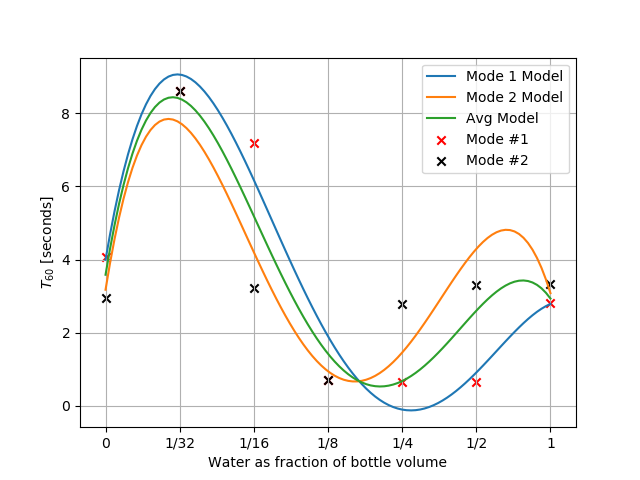
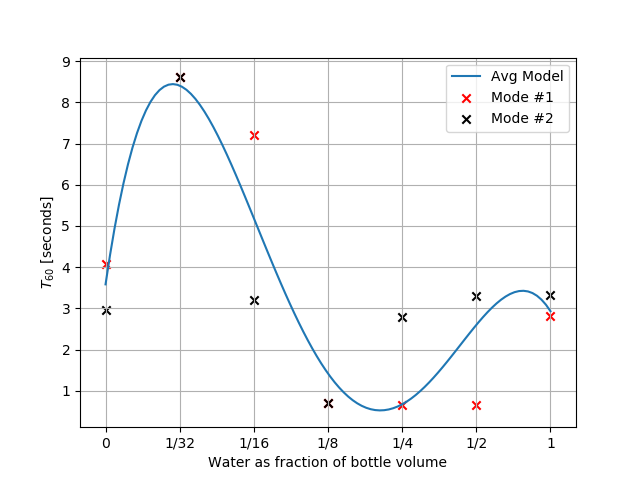
Update water damping plot

diff --git a/hydroflask_water_mode_analysis.py b/hydroflask_water_mode_analysis.py
@@ -14,61 +14,56 @@ def rev_sigmoid(x, a, b, c, d):
     return c * (1.0 - (1.0 / (1.0 + np.exp(-b*(x-a))))) + d
 
 # %%
-plt.figure()
-mode_freqs = np.flip(np.abs(mode_data[:,0]))
-plt.scatter(x, mode_freqs, marker='x', color='r', label='Measured')
+# plt.figure()
+# mode_freqs = np.flip(np.abs(mode_data[:,0]))
+# plt.scatter(x, mode_freqs, marker='x', color='r', label='Measured')
 
-# z_freq = np.polyfit(x, mode_freqs, 3)
-# p_freq = np.poly1d(z_freq)
-# plt.plot(x_long, p_freq(x_long), label='Modelled')
-popt, pcov = curve_fit(rev_sigmoid, x, mode_freqs, bounds=([0, 1, -100, -200], [1, 100, 100, 200]))
-plt.plot(x_long, rev_sigmoid(x_long, *popt), label='Modelled')
-# print('Freq function:')
-# print(p_freq)
-print(popt)
+# popt, pcov = curve_fit(rev_sigmoid, x, mode_freqs, bounds=([0, 1, -100, -200], [1, 100, 100, 200]))
+# plt.plot(x_long, rev_sigmoid(x_long, *popt), label='Modelled')
+# print(popt)
 
-# plt.title('First mode frequency vs water amount')
-plt.ylabel('Frequency [Hz]')
-plt.xlabel('Water as fraction of bottle volume')
-plt.xticks(x, ['0', '1/32', '1/16', '1/8', '1/4', '1/2', '1'])
-plt.legend()
-plt.grid()
-plt.savefig('Figures/Water_Freq.png')
+# # plt.title('First mode frequency vs water amount')
+# plt.ylabel('Frequency [Hz]')
+# plt.xlabel('Water as fraction of bottle volume')
+# plt.xticks(x, ['0', '1/32', '1/16', '1/8', '1/4', '1/2', '1'])
+# plt.legend()
+# plt.grid()
+# plt.savefig('Figures/Water_Freq.png')
 
 # %%
-# plt.figure()
-# colors = ['r', 'k']
-# for i in range(2):
-#     mode_damps = np.abs(mode_data[:,40+i])
-#     tau_gains = np.exp(-1.0 / mode_damps)
-#     t60s = np.log(0.001) / (48000 * np.log(tau_gains))
-#     plt.scatter(x, t60s, label='Mode #{}'.format(i+1), marker='x', color=colors[i])
+plt.figure()
+colors = ['r', 'k']
+for i in range(2):
+    mode_damps = np.abs(mode_data[:,40+i])
+    tau_gains = np.exp(-1.0 / mode_damps)
+    t60s = np.log(0.001) / (48000 * np.log(tau_gains))
+    plt.scatter(x, t60s, label='Mode #{}'.format(i+1), marker='x', color=colors[i])
 
-# mode_damps1 = np.mean(np.abs(mode_data[:,40:41]), axis=1)
-# mode_damps2 = np.mean(np.abs(mode_data[:,41:42]), axis=1)
-# mode_damps_avg = np.mean(np.abs(mode_data[:,40:42]), axis=1)
-# # # plt.plot(x, mode_damps, label='Avg')
+mode_damps1 = np.mean(np.abs(mode_data[:,40:41]), axis=1)
+mode_damps2 = np.mean(np.abs(mode_data[:,41:42]), axis=1)
+mode_damps_avg = np.mean(np.abs(mode_data[:,40:42]), axis=1)
+# # plt.plot(x, mode_damps, label='Avg')
 
-# def model_mode_damp(mode_damps, label):
-#     z_damp = np.polyfit(x, mode_damps, 4)
-#     p_damp = np.poly1d(z_damp)
-#     tau_gains = np.exp(-1.0 / p_damp(x_long))
-#     t60s = np.log(0.001) / (48000 * np.log(tau_gains))
-#     plt.plot(x_long, t60s, label=label)
-#     # print('Damp function:')
-#     # print(p_damp)
+def model_mode_damp(mode_damps, label):
+    z_damp = np.polyfit(x, mode_damps, 4)
+    p_damp = np.poly1d(z_damp)
+    tau_gains = np.exp(-1.0 / p_damp(x_long))
+    t60s = np.log(0.001) / (48000 * np.log(tau_gains))
+    plt.plot(x_long, t60s, label=label)
+    # print('Damp function:')
+    # print(p_damp)
 
 # model_mode_damp(mode_damps1, 'Mode 1 Model')
 # model_mode_damp(mode_damps2, 'Mode 2 Model')
-# model_mode_damp(mode_damps_avg, 'Avg Model')
+model_mode_damp(mode_damps_avg, 'Avg Model')
 
-# plt.legend()
-# # plt.title('First 2 modes damping vs water amount')
-# plt.ylabel(r'$T_{60}$ [seconds]')
-# plt.xlabel('Water as fraction of bottle volume')
-# plt.xticks(x, ['0', '1/32', '1/16', '1/8', '1/4', '1/2', '1'])
-# plt.grid()
-# plt.savefig('Figures/Water_Damping.png')
+plt.legend()
+# plt.title('First 2 modes damping vs water amount')
+plt.ylabel(r'$T_{60}$ [seconds]')
+plt.xlabel('Water as fraction of bottle volume')
+plt.xticks(x, ['0', '1/32', '1/16', '1/8', '1/4', '1/2', '1'])
+plt.grid()
+plt.savefig('Figures/Water_Damping.png')
 
 # %%
 plt.show()
